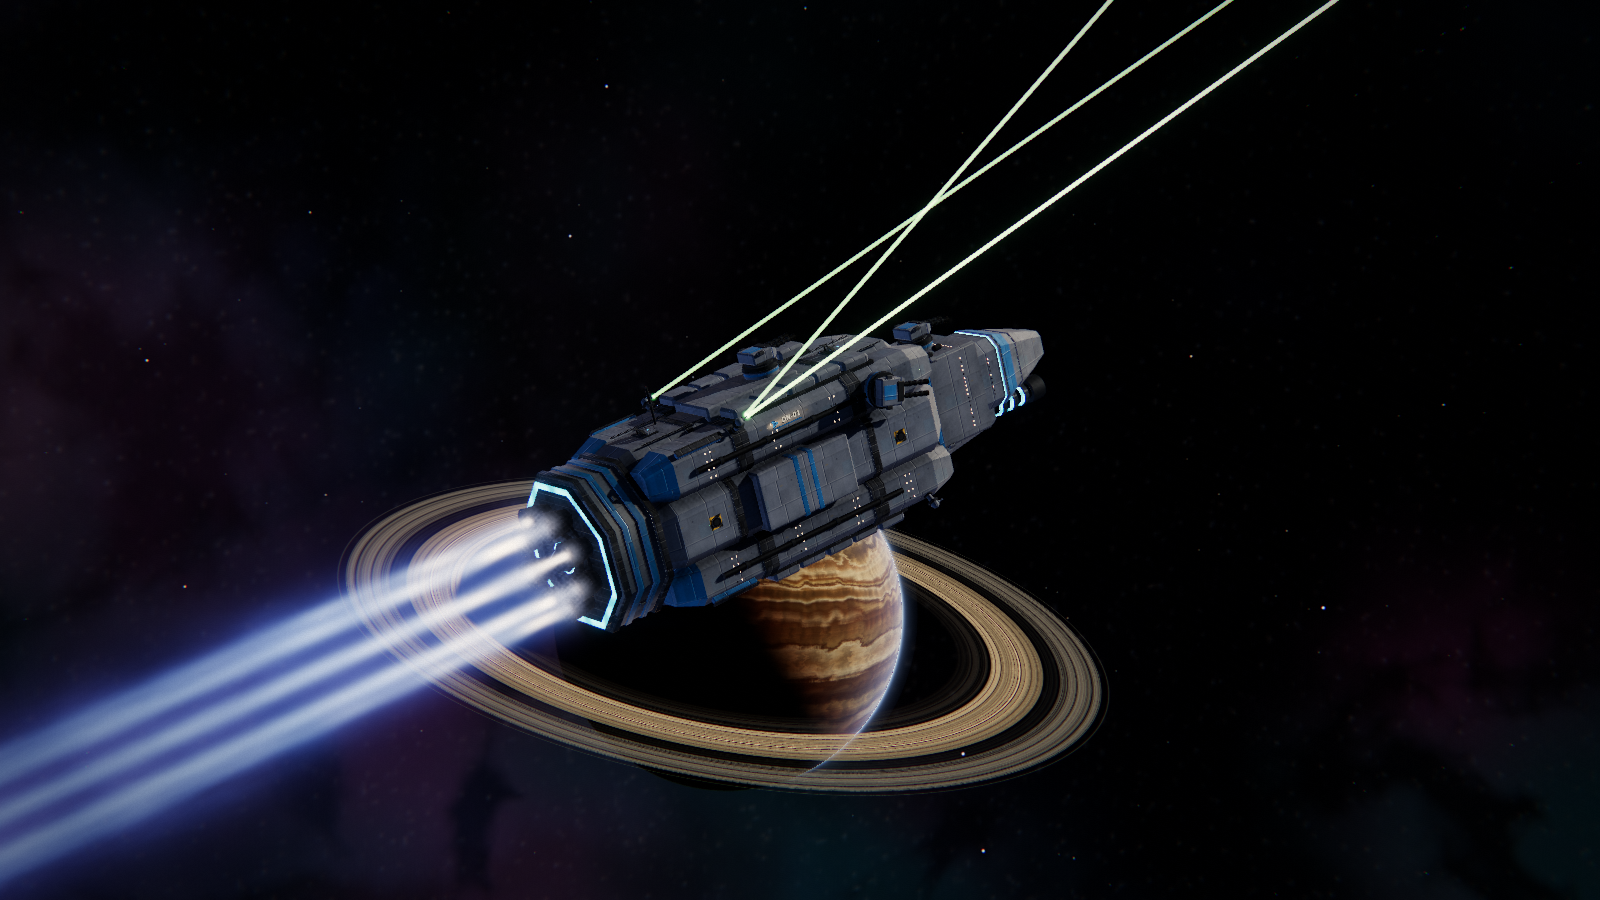
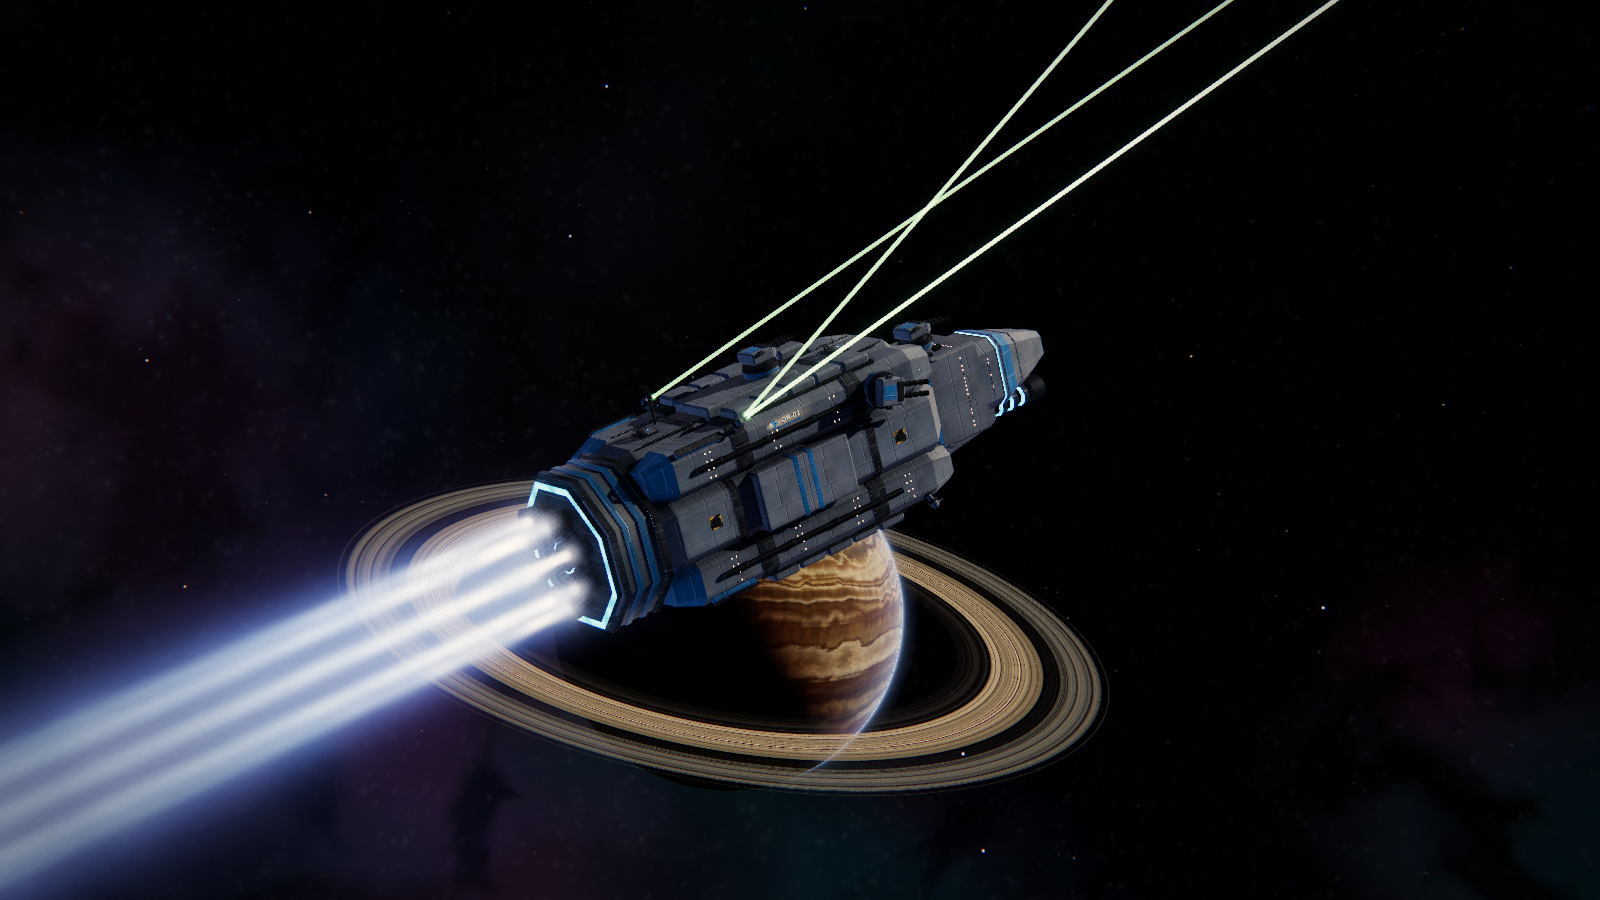
Plume tuning (spear 0.45 HDR, root inside the flames, crisper streaks) and README re-shoot of hero.png and plume-wash.png
Spear: side-on brightness 0.45 x throttle at the nozzle, falling as
(1 + z / 0.5 km)^-1.15; root radius 0.6 x the bell cluster's drawn radius;
line-of-sight gain held at 1/0.45. Torch streaks finer and with more contrast
in the sheath. hero.png and plume-wash.png re-shot with their README
commands (hero from the staged p4c_vfix_showcase_s0.json, the same battle);
captions and the scale paragraph updated.

Claude-Session: https://claude.ai/code/session_01UG3jV6zwB9tH5e8W89WnJJ

Changed region(s): [[0.0, 0.56, 0.375, 1.0]]

diff --git a/visualizer/src/render/PlumeProfile.js b/visualizer/src/render/PlumeProfile.js
@@ -42,7 +42,7 @@ export const JET_MAX_DEG = 7.5;
 /** Drawn reach (km); the engine washes out to 100 km, under 0.4 GJ/s past 60. Fades over its last 40%. */
 export const JET_REACH_KM = 60;
 /** Side-on centreline radiance of the jet at the nozzle, full throttle (scene HDR, additive). */
-export const JET_LEVEL = 0.55;
+export const JET_LEVEL = 0.45;
 /** Near-field length (km, true scale): the side-on brightness halves over the first one. */
 export const JET_NEAR_KM = 0.5;
 /**
@@ -203,13 +203,16 @@ export function jetCap(col) {
   return JET_CAP * (1 - Math.exp(-col / JET_CAP));
 }
 
+/** The spear's root radius as a share of the bell cluster's radius: a core inside the flames, not a sheet over them. */
+export const JET_ROOT = 0.6;
+
 /**
- * Drawn drive radius (kit units) of a hull's bell cluster: the farthest
- * bell centre plus its nozzle radius. Times the hull's draw scale k it is
- * the jet's radius at the nozzle.
+ * Root radius (kit units) of a hull's spear: JET_ROOT x (the farthest bell
+ * centre plus its nozzle radius). Times the hull's draw scale k it is the
+ * jet's radius at the nozzle.
  */
 export function driveRadius(positions, nozzleR) {
   let r = 0;
   for (const p of positions) r = Math.max(r, Math.hypot(p.x, p.y));
-  return r + nozzleR;
+  return JET_ROOT * (r + nozzleR);
 }

diff --git a/visualizer/src/render/DriveJet.js b/visualizer/src/render/DriveJet.js
@@ -15,7 +15,7 @@ export { JET_CORE_DEG, JET_MAX_DEG, JET_REACH_KM, jetAxial } from './PlumeProfil
  *
  * The engine's drive plume (src/drive_plume.py) washes anything within 7.5
  * degrees of dead astern out to 100 km (a Gaussian 3 degree core). The jet
- * draws that core: a Gaussian beam whose radius is the drive's DRAWN radius
+ * draws that core: a Gaussian beam whose radius is the drive's DRAWN root radius (PlumeProfile.driveRadius)
  * at the nozzle plus z tan 3 deg, so near the ship it is as wide as the
  * drawn bells (magnified with the hull in the auto scale mode) and far
  * astern it is the real cone. Its side-on brightness is jetAxial(z): bright
@@ -251,7 +251,7 @@ export class DriveJets {
     this.material = new THREE.ShaderMaterial({
       uniforms: {
         uColor: { value: new THREE.Color(0.32, 0.5, 1.0) },
-        uHot: { value: new THREE.Color(0.62, 0.76, 1.0) },
+        uHot: { value: new THREE.Color(0.5, 0.68, 1.0) },
         uPixelWorld: Ribbon.pixelWorld,
         uSeg: { value: SEG.high }
       },

diff --git a/visualizer/src/render/Torch.js b/visualizer/src/render/Torch.js
@@ -382,9 +382,9 @@ export function damagedNozzle(health, i, n, seed, out = { level: 1, sputter: 0 }
 
 /** Streak scroll (texture tiles per wall-clock second) and scale (nozzle radii) by tint. */
 export const FLOW_RATE = { fusion: [4.3, 7.1], chemical: [0.4, 0.7] };
-const STREAK = { fusion: [2.2, 1.6, 26, 17], chemical: [7, 5, 44, 44 / 2.1] };
+const STREAK = { fusion: [3.0, 2.2, 26, 17], chemical: [7, 5, 44, 44 / 2.1] };
 /** Turbulence floor of core, sheath, halo (1 = smooth): a fusion jet shimmers, vented gas billows. */
-const ROUGH = { fusion: [0.86, 0.5, 0.72], chemical: [0.7, 0.22, 0.4] };
+const ROUGH = { fusion: [0.8, 0.32, 0.6], chemical: [0.7, 0.22, 0.4] };
 
 /** Streak phases at wall-clock time `time` (wrapped, so float precision never degrades). */
 export function flowPhase(time, rate, out = [0, 0]) {

diff --git a/docs/images/readme/README.md b/docs/images/readme/README.md
@@ -3,9 +3,10 @@
 Captured from the Three.js viewer on November 15, 2026 (pass-5 viewer: sun
 shadows, image-based fill, ambient occlusion, new hulls and effects) with
 headless Chromium (Playwright, SwiftShader WebGL) at 1600 × 900 with
-`--gfx high`. `hero.png`, `dreadnought.png`, `plume-wash.png` and the four
-`damage-*` images were captured on November 17, 2026 at the viewer's default
-hull scale (`auto`: real-size hulls up close); see [Hull scale](#hull-scale). The two live-mode images (`live-deliberation.png`,
+`--gfx high`. `dreadnought.png` and the four `damage-*` images were captured
+on November 17, 2026, `hero.png` and `plume-wash.png` re-shot on November 18,
+2026 (the one-piece drive plume), all at the viewer's default hull scale
+(`auto`: real-size hulls up close); see [Hull scale](#hull-scale). The two live-mode images (`live-deliberation.png`,
 `draft-splash.png`) are still the October 25, 2026 captures. These are
 application screenshots: ship states, ordnance, damage, HUD text and commander
 messages come from the recorded battles. Nothing is painted in or retouched;
@@ -28,7 +29,7 @@ filters/scrolling, and for `command-net.png` a 2× device-scale crop.
 | `blast-shell.jpg` | Pass-5 damage demo | 152.6s | Reactor blast of `beta_5` (destroyer, killed at 150 s) 2.6 s on: fireball inside the blast shell drawn to the recorded 13 km radius, two escorts beside it, PD lasers still working; 6 hull lengths, azimuth 30°, elevation 18°; HUD hidden |
 | `fittings-hud.png` | Pass-5 damage demo | 180s | OCS Falchion-1 (`beta_2`) selected one second after the frigate TIS Ward-1's reactor blast caught it: kill toast with the blast radius, CAUGHT IN BLAST and DISARMED toasts, fitting pips in the ship registry, FITTINGS block (guns, PD with one damaged turret, drive) in the telemetry card; 5 hull lengths, azimuth 30°, elevation 18° |
 | `dreadnought.png` | Showcase s0 | 96.5s | `alpha_1`, the pass-5 dreadnought, three-quarter view from the sunlit side at full thrust; 3 hull lengths (0.83 km), azimuth −10°, elevation 35°, 20° lens; HUD hidden; scale auto |
-| `plume-wash.png` | Pass-5 plume demo (`p5_plume_demo.json`, scripted `plume_wash` battle) | 62s | From beside the stern of the battleship `alpha_1` (lower left, torch lit) down its exhaust jet to the destroyer `alpha_2` 6 km astern, glowing in the wash, with its own jet beyond it; camera 1.1 hull lengths ahead of the battleship's centre, 0.5 above, 1.5 to port, looking 14 lengths astern; HUD hidden; scale auto |
+| `plume-wash.png` | Pass-5 plume demo (`p5_plume_demo.json`, scripted `plume_wash` battle) | 62s | From beside the stern of the battleship `alpha_1` (lower left, torch lit) down its exhaust: one beam from the bells, fading with distance, to the destroyer `alpha_2` 6 km astern, glowing in the wash; camera 1.1 hull lengths ahead of the battleship's centre, 0.5 above, 1.5 to port, looking 14 lengths astern; HUD hidden; scale auto |
 | `damage-bow.png` | Sonnet 5 vs Sonnet 5.5, battle d | 297.6s | Bow of `alpha_1` (Sonnet 5's battlecruiser) after 35 nose hits, 8 of them penetrations (the last at 297 s), all five mounts wrecked; its magazine burns at 298 s. Camera 0.66 hull lengths ahead of the centre, 0.2 above, 0.3 to port, looking at the bow; HUD hidden; scale auto |
 | `damage-mounts.jpg` | Sonnet 5.5 vs Sonnet 5, battle c | 478s | `beta_1` (Sonnet 5's battleship) from above the bow, 27 s after its forward magazine cooked off (451 s): scorched deck, heavy battery `weapon_3` (destroyed at 453 s) smoking, two breaches venting; camera 0.35 lengths ahead, 0.55 above, 0.45 to port; HUD hidden; scale auto |
 | `damage-cookoff.png` | Sonnet 5.5 vs Sonnet 5, battle c | 451.9s | The forward magazine of `beta_1` cooking off (`magazine_cookoff` at 451 s); camera 1.1 lengths ahead, 0.3 above, 0.8 to port; HUD hidden; scale auto |
@@ -64,6 +65,17 @@ torpedo's whole terminal run) only exists in that mode, and the README
 captions it as such. The other images are HUD shots or scenes where the scale
 mode does not change what the caption claims; the root README marks the ones
 where oversize hulls are visible against real-size blasts as cinematic.
+
+November 18 re-shoot (drive plume, same commands). The exhaust is now one
+light field from the bells outward (`visualizer/src/render/PlumeProfile.js`):
+the flame and the spear beyond it both start at the nozzle and only fade, so
+the November 17 frames' detached haze is gone. In `hero.png` the eight
+dreadnought plumes are hotter white-blue lances with a glow at the bells; in
+`plume-wash.png` the battleship's exhaust is a single beam that fades from
+the bells to the washed destroyer instead of a flame, a dark gap and a pale
+cloud around the destroyer. The hero frame was taken from the staged copy of
+the same battle, `p4c_vfix_showcase_s0.json` (substitute it for
+`showcase_s0_200pt.json` in the command if that file is not staged).
 
 ## Recordings
 

diff --git a/README.md b/README.md
@@ -73,7 +73,7 @@ Open **[the Sonnet 5 vs DeepSeek torpedo swarm](http://localhost:5173/?recording
 | **FOLLOW** button | Return to following the live battle |
 | **REALTIME** / **FLEETS** buttons | Live pacing behind the newest frame, and reopening the draft splash |
 
-**Ships are their real size.** Hulls are 65 to 275 m long and fight at tens to hundreds of kilometres. In the default **auto** scale a ship near the camera is drawn at exactly its real size, and everything that touches it is at real scale and in the right place: coilgun slugs and torpedoes arrive at the hull and stop there, a miss passes beside it, point-defense beams leave the turret that fired, a reactor blast is the engine's 10 to 20 km against a 100 m hull, and a torch's exhaust is a faint cone reaching tens of kilometres astern (the jet the engine's plume wash uses; `?jets=0` hides it). A hull too far away to see is enlarged only as far as needed to stay a small readable silhouette (about 2 to 4% of the view height, growing smoothly from real size with no jump), with the contact brackets and labels on top. **S** cycles to **true** (always real size; at distance only the markers remain) and **cinematic** (every hull about 60 times oversize at every range, the look of earlier versions). Screenshots on this page captioned *cinematic scale* were captured in that mode; the others use the default.
+**Ships are their real size.** Hulls are 65 to 275 m long and fight at tens to hundreds of kilometres. In the default **auto** scale a ship near the camera is drawn at exactly its real size, and everything that touches it is at real scale and in the right place: coilgun slugs and torpedoes arrive at the hull and stop there, a miss passes beside it, point-defense beams leave the turret that fired, a reactor blast is the engine's 10 to 20 km against a 100 m hull, and a torch's exhaust is one straight lance from the bells: a blinding flame a few hull lengths long that continues as a spear fading over tens of kilometres astern, the 3 degree cone the engine's plume wash uses (`?jets=0` hides the spear). A hull too far away to see is enlarged only as far as needed to stay a small readable silhouette (about 2 to 4% of the view height, growing smoothly from real size with no jump), with the contact brackets and labels on top. **S** cycles to **true** (always real size; at distance only the markers remain) and **cinematic** (every hull about 60 times oversize at every range, the look of earlier versions). Screenshots on this page captioned *cinematic scale* were captured in that mode; the others use the default.
 
 Each of the nine hull classes has its own design, drawn to scale in faction livery with its real armament: spinal coilers, battery turrets and point-defense mounts at one physical size on every hull, torpedo banks whose cells empty as rounds launch, radiators that telescope out and glow with the heat they reject, and RCS thrusters that fire as a ship turns or jinks. Coilgun slugs leave the barrel that fired them. Kinetic torpedo strikes flash and throw spall instead of exploding like warheads. Hits leave cooling craters, scorched plating and venting breaches, and killed ships become burning hulks before their reactors go. Everything, including destruction, reconstructs correctly when you scrub backward.
 
@@ -119,9 +119,9 @@ Each of the nine hull classes has its own design, drawn to scale in faction live
 
 **The drive is a hazard.** A torch carries about 300 TW of jet power. A ship in another ship's exhaust takes heat, then armour and fitting damage, and its crew accumulates a radiation dose; the washed plating glows. An interlock throttles a drive that would wash an allied ship, and commanders see plume and crew warnings in their status.
 
-![The stern of a battleship at lower left with its blue torch lit; a faint cone of exhaust runs from it to a small glowing destroyer in the distance](docs/images/readme/plume-wash.png)
+![The stern of a battleship at lower left with its torch lit; a straight beam of exhaust runs from its bells, fading with distance, to a small glowing destroyer in the distance](docs/images/readme/plume-wash.png)
 
-*A destroyer six kilometres astern of a battleship, inside its exhaust jet: at real size the torch's flame is under a kilometre long, and the jet that does the damage is the faint cone beyond it. The washed destroyer glows.*
+*A destroyer six kilometres astern of a battleship, inside its exhaust jet: at real size the torch's flame is under a kilometre long and continues as the spear that does the damage, one beam fading from the bells to the destroyer. The washed destroyer glows.*
 
 ![A dreadnought in three-quarter view with slab armour plating, wedge bow and parallel drive jets, point-defense lasers firing](docs/images/readme/dreadnought.png)
 
